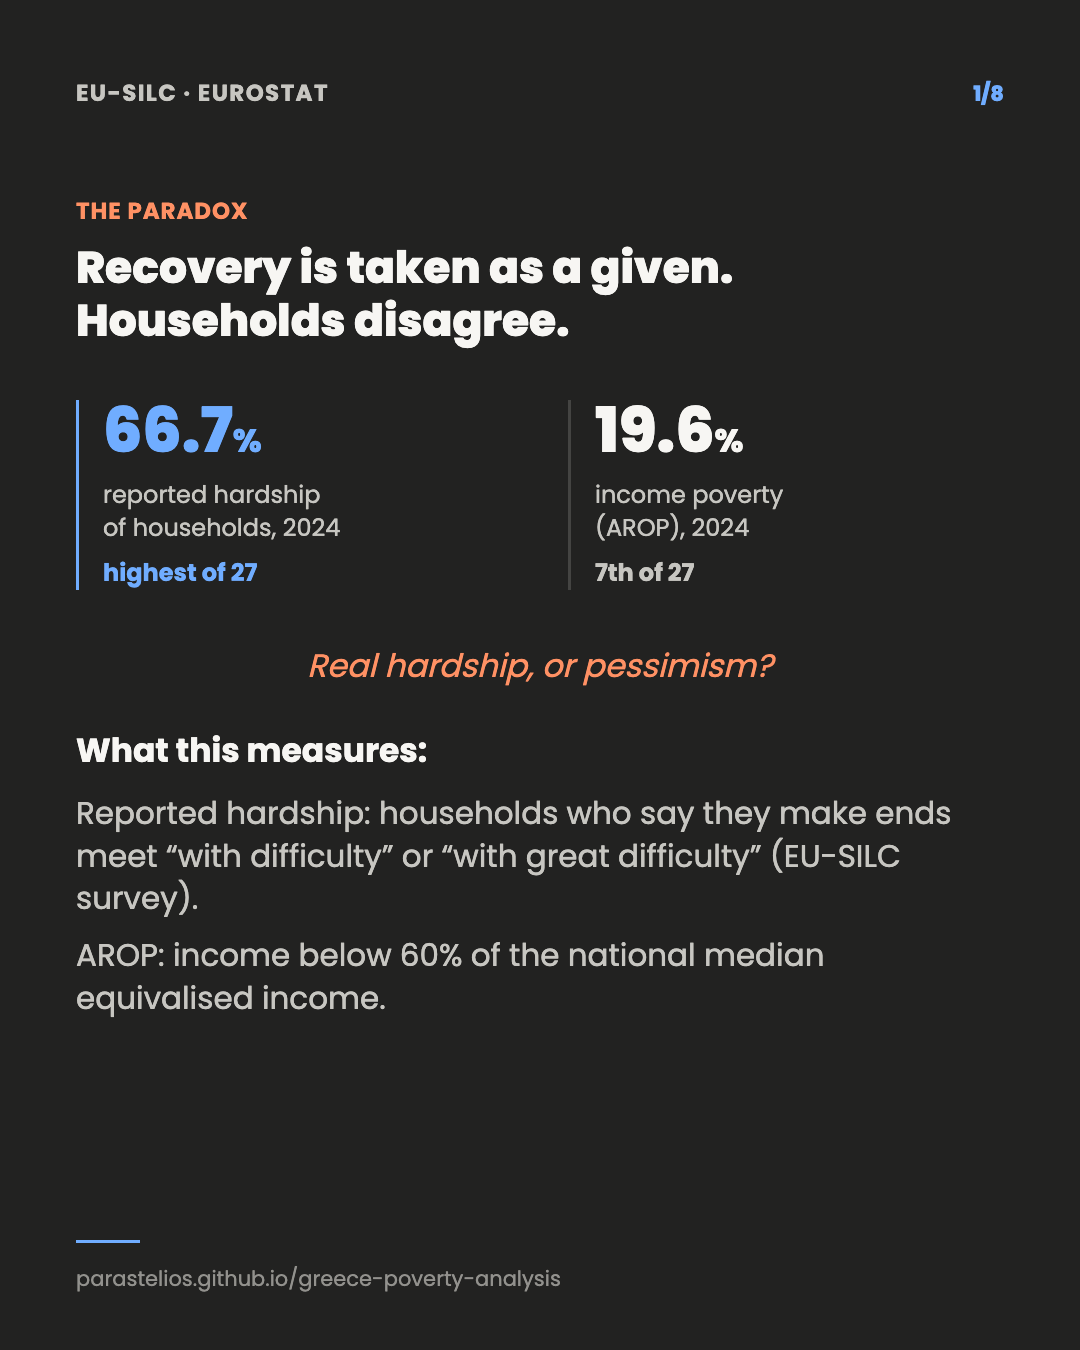
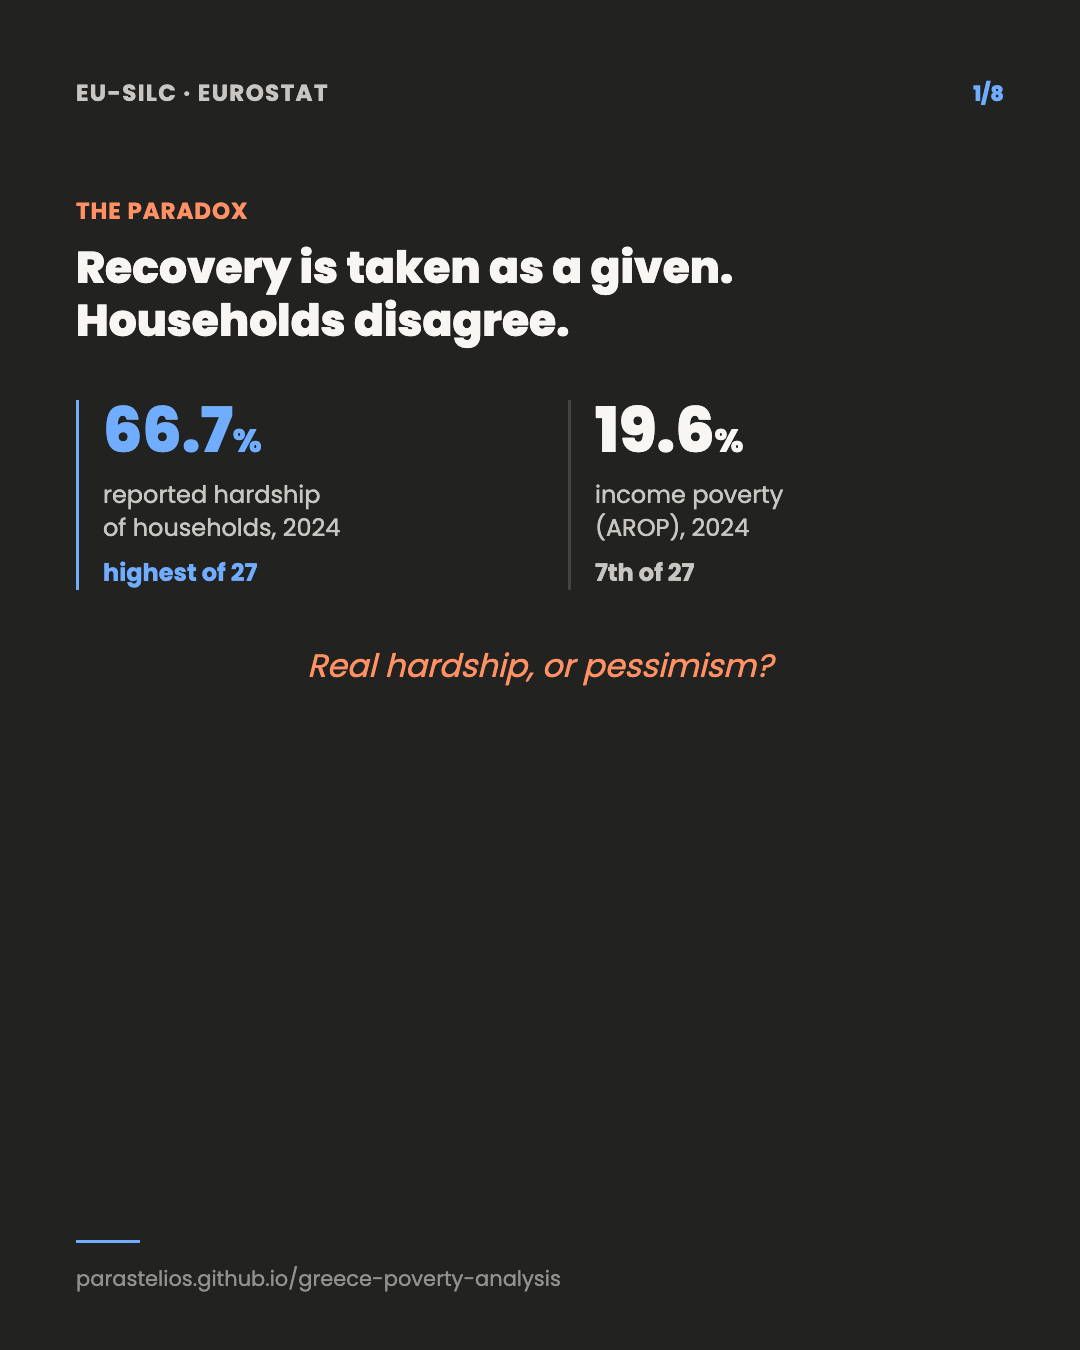
Move carousel "what this measures" definitions out of the images into real HTML
No amount of in-image font-size can guarantee a fixed CSS pixel size on
screen -- the carousel displays at ~283px on mobile and ~585px even on
desktop (a 1080px source scaled down 3.8x / 1.85x), so raster text baked
into the PNG can never reliably match the narrative's real ~17px body
text. Reverted cards 1/2/4/5/6 back to poster-only content (title, stats,
icons, footnote) and moved the definitions into a new .card-note block
rendered as actual DOM text beneath each image, sized to match the
narrative's body copy exactly and completely independent of image scale.

Changed region(s): [[0.0611, 0.5289, 0.8861, 0.7467]]

diff --git a/site/el.html b/site/el.html
@@ -102,9 +102,13 @@ footer a{color:var(--text-secondary)}
   -webkit-overflow-scrolling:touch;scrollbar-width:none;padding:2px 2px 4px;margin:0;
   list-style:none}
 .carousel-track::-webkit-scrollbar{display:none}
-.carousel-slide{flex:0 0 76%;scroll-snap-align:start;margin:0;border-radius:14px;
-  overflow:hidden;border:1px solid var(--border);background:var(--surface-1)}
+.carousel-slide{display:flex;flex-direction:column;flex:0 0 76%;scroll-snap-align:start;
+  margin:0;border-radius:14px;overflow:hidden;border:1px solid var(--border);
+  background:var(--surface-1)}
 .carousel-slide img{display:block;width:100%;height:auto;aspect-ratio:4/5;object-fit:cover}
+.card-note{padding:16px 18px 18px;font-size:17px;line-height:1.55;color:var(--text-secondary)}
+.card-note b{display:block;margin-bottom:6px;color:var(--text-primary)}
+.card-note .lfs{display:block;margin-top:8px;font-style:italic;font-size:15px;color:var(--text-muted)}
 .car-arrow{position:absolute;top:50%;transform:translateY(-50%);width:38px;height:38px;
   border-radius:50%;border:1px solid var(--border);background:var(--surface-1);
   color:var(--text-primary);font-size:18px;line-height:1;cursor:pointer;display:flex;
@@ -175,12 +179,12 @@ footer a{color:var(--text-secondary)}
   <div class="carousel-wrap">
     <div class="carousel" role="region" aria-roledescription="carousel" aria-label="Η ιστορία σε οκτώ κάρτες">
       <ul class="carousel-track" id="car-el" tabindex="0">
-        <li class="carousel-slide"><img src="assets/carousel/el-1.png" width="1080" height="1350" loading="lazy" alt="Η ανάκαμψη θεωρείται δεδομένη. Τα νοικοκυριά διαφωνούν. 66,7% των νοικοκυριών δηλώνουν οικονομική δυσκολία, η υψηλότερη τιμή στην ΕΕ, ενώ η εισοδηματική φτώχεια (AROP) είναι 19,6%, στην 7η θέση από τις 27 χώρες."></li>
-        <li class="carousel-slide"><img src="assets/carousel/el-2.png" width="1080" height="1350" loading="lazy" alt="Η δυσκολία δεν μπορεί να απορριφθεί ως απλή απαισιοδοξία. Τρεις δείκτες υλικής δυσκολίας — απρόοπτα έξοδα, θέρμανση, βασικές ανάγκες — κινούνται μαζί με τη δηλωμένη δυσκολία, με συσχετίσεις από 0,87 έως 0,94, 2015–2024."></li>
+        <li class="carousel-slide"><img src="assets/carousel/el-1.png" width="1080" height="1350" loading="lazy" alt="Η ανάκαμψη θεωρείται δεδομένη. Τα νοικοκυριά διαφωνούν. 66,7% των νοικοκυριών δηλώνουν οικονομική δυσκολία, η υψηλότερη τιμή στην ΕΕ, ενώ η εισοδηματική φτώχεια (AROP) είναι 19,6%, στην 7η θέση από τις 27 χώρες."><div class="card-note"><b>Τι μετρά:</b>Δηλωμένη δυσκολία: νοικοκυριά που δηλώνουν ότι τα βγάζουν πέρα «με δυσκολία» ή «με μεγάλη δυσκολία» (έρευνα EU-SILC). AROP: εισόδημα κάτω από το 60% του εθνικού διάμεσου ισοδύναμου εισοδήματος.</div></li>
+        <li class="carousel-slide"><img src="assets/carousel/el-2.png" width="1080" height="1350" loading="lazy" alt="Η δυσκολία δεν μπορεί να απορριφθεί ως απλή απαισιοδοξία. Τρεις δείκτες υλικής δυσκολίας — απρόοπτα έξοδα, θέρμανση, βασικές ανάγκες — κινούνται μαζί με τη δηλωμένη δυσκολία, με συσχετίσεις από 0,87 έως 0,94, 2015–2024."><div class="card-note"><b>Τι μετρά:</b>Συσχέτιση κοντά στο 1 σημαίνει ότι οι δύο σειρές κινούνται σχεδόν παράλληλα στον χρόνο &mdash; όχι ότι η μία προκαλεί την άλλη.</div></li>
         <li class="carousel-slide"><img src="assets/carousel/el-3.png" width="1080" height="1350" loading="lazy" alt="Ο πήχης έπεσε μαζί με τη χώρα. Το 2014 η επίσημη φτώχεια ήταν 22,1%, όμως με σταθερό το όριο του 2008 θα είχε φτάσει το 40,6% την ίδια χρονιά."></li>
-        <li class="carousel-slide"><img src="assets/carousel/el-4.png" width="1080" height="1350" loading="lazy" alt="Η απασχόληση βελτιώθηκε. Η οικονομική ασφάλεια όχι. Από το 2015 ως το 2024, η απασχόληση βελτιώθηκε σημαντικά, οι πραγματικοί μισθοί έπεσαν στο 68 από το 100, και η στεγαστική πίεση παραμένει στο 28,9%, πολύ πάνω από τη διάμεση τιμή της ΕΕ."></li>
-        <li class="carousel-slide"><img src="assets/carousel/el-5.png" width="1080" height="1350" loading="lazy" alt="Η κρίση δεν τελείωσε όταν έπεσε η ανεργία. Η Ελλάδα είναι 1η από τις 27 χώρες της ΕΕ στη συσσωρευμένη ανεργία, 2η στα χρόνια μισθών κάτω από το 2008, και 1η στην επιδείνωση του κόστους στέγασης, 2009–2024."></li>
-        <li class="carousel-slide"><img src="assets/carousel/el-6.png" width="1080" height="1350" loading="lazy" alt="Το μοντέλο δεν λύνει τα πάντα. Η θέση της Ελλάδας στο ανεξήγητο υπόλοιπο μετακινείται από την 3η στην 25η θέση μεταξύ 27 χωρών, ανάλογα με μία εύλογη αλλαγή στο μοντέλο."></li>
+        <li class="carousel-slide"><img src="assets/carousel/el-4.png" width="1080" height="1350" loading="lazy" alt="Η απασχόληση βελτιώθηκε. Η οικονομική ασφάλεια όχι. Από το 2015 ως το 2024, η απασχόληση βελτιώθηκε σημαντικά, οι πραγματικοί μισθοί έπεσαν στο 68 από το 100, και η στεγαστική πίεση παραμένει στο 28,9%, πολύ πάνω από τη διάμεση τιμή της ΕΕ."><div class="card-note"><b>Τι μετρά:</b>Πραγματικοί μισθοί: δείκτης έναντι του 2008 (2008=100), προσαρμοσμένος στον πληθωρισμό. Στεγαστική πίεση: μερίδιο πληθυσμού με κόστος στέγασης πάνω από το 40% του διαθέσιμου εισοδήματος.</div></li>
+        <li class="carousel-slide"><img src="assets/carousel/el-5.png" width="1080" height="1350" loading="lazy" alt="Η κρίση δεν τελείωσε όταν έπεσε η ανεργία. Η Ελλάδα είναι 1η από τις 27 χώρες της ΕΕ στη συσσωρευμένη ανεργία, 2η στα χρόνια μισθών κάτω από το 2008, και 1η στην επιδείνωση του κόστους στέγασης, 2009–2024."><div class="card-note"><b>Τι μετρά:</b>Συσσωρευμένη ανεργία: άθροισμα, από το 2009, των ετήσιων υπερβάσεων πάνω από το επίπεδο ανεργίας που είχε τότε κάθε χώρα.<span class="lfs">Εναρμονισμένη, αναδρομικά διορθωμένη σειρά EU-LFS, 2009&ndash;2024.</span></div></li>
+        <li class="carousel-slide"><img src="assets/carousel/el-6.png" width="1080" height="1350" loading="lazy" alt="Το μοντέλο δεν λύνει τα πάντα. Η θέση της Ελλάδας στο ανεξήγητο υπόλοιπο μετακινείται από την 3η στην 25η θέση μεταξύ 27 χωρών, ανάλογα με μία εύλογη αλλαγή στο μοντέλο."><div class="card-note"><b>Τι μετρά:</b>Υπόλοιπο = πραγματική μείον προβλεπόμενη δυσκολία, σε ποσοστιαίες μονάδες.</div></li>
         <li class="carousel-slide"><img src="assets/carousel/el-7.png" width="1080" height="1350" loading="lazy" alt="Το ανεξήγητο υπόλοιπο δεν αποδεικνύει «απαισιοδοξία». Φορολογία, πλούτος, εμπιστοσύνη, υγεία και μετανάστευση παραμένουν πιθανοί παράγοντες, όχι αποδεδειγμένες αιτίες."></li>
         <li class="carousel-slide"><img src="assets/carousel/el-8.png" width="1080" height="1350" loading="lazy" alt="Ορισμένοι δείκτες βελτιώθηκαν. Η κοινωνία δεν ανέκαμψε μαζί τους. Δεν μπορούμε να πιστοποιούμε την ανάκαμψη με τους δείκτες και να μεταφέρουμε την ευθύνη στην ψυχολογία των νοικοκυριών όταν η εμπειρία τους διαφωνεί."></li>
       </ul>

diff --git a/site/index.html b/site/index.html
@@ -102,9 +102,13 @@ footer a{color:var(--text-secondary)}
   -webkit-overflow-scrolling:touch;scrollbar-width:none;padding:2px 2px 4px;margin:0;
   list-style:none}
 .carousel-track::-webkit-scrollbar{display:none}
-.carousel-slide{flex:0 0 76%;scroll-snap-align:start;margin:0;border-radius:14px;
-  overflow:hidden;border:1px solid var(--border);background:var(--surface-1)}
+.carousel-slide{display:flex;flex-direction:column;flex:0 0 76%;scroll-snap-align:start;
+  margin:0;border-radius:14px;overflow:hidden;border:1px solid var(--border);
+  background:var(--surface-1)}
 .carousel-slide img{display:block;width:100%;height:auto;aspect-ratio:4/5;object-fit:cover}
+.card-note{padding:16px 18px 18px;font-size:17px;line-height:1.55;color:var(--text-secondary)}
+.card-note b{display:block;margin-bottom:6px;color:var(--text-primary)}
+.card-note .lfs{display:block;margin-top:8px;font-style:italic;font-size:15px;color:var(--text-muted)}
 .car-arrow{position:absolute;top:50%;transform:translateY(-50%);width:38px;height:38px;
   border-radius:50%;border:1px solid var(--border);background:var(--surface-1);
   color:var(--text-primary);font-size:18px;line-height:1;cursor:pointer;display:flex;
@@ -175,12 +179,12 @@ footer a{color:var(--text-secondary)}
   <div class="carousel-wrap">
     <div class="carousel" role="region" aria-roledescription="carousel" aria-label="The story in eight cards">
       <ul class="carousel-track" id="car-en" tabindex="0">
-        <li class="carousel-slide"><img src="assets/carousel/en-1.png" width="1080" height="1350" loading="lazy" alt="Recovery is taken as a given. Households disagree. 66.7% of households report economic hardship, the highest share in the EU, while income poverty (AROP) is 19.6%, 7th highest of 27 countries."></li>
-        <li class="carousel-slide"><img src="assets/carousel/en-2.png" width="1080" height="1350" loading="lazy" alt="Reported hardship cannot be dismissed as pessimism alone. Three material-hardship indicators — unexpected expense, heating, basic needs — move together with reported hardship, correlations from 0.87 to 0.94, 2015–2024."></li>
+        <li class="carousel-slide"><img src="assets/carousel/en-1.png" width="1080" height="1350" loading="lazy" alt="Recovery is taken as a given. Households disagree. 66.7% of households report economic hardship, the highest share in the EU, while income poverty (AROP) is 19.6%, 7th highest of 27 countries."><div class="card-note"><b>What this measures:</b>Reported hardship: households who say they make ends meet &ldquo;with difficulty&rdquo; or &ldquo;with great difficulty&rdquo; (EU-SILC survey). AROP: income below 60% of the national median equivalised income.</div></li>
+        <li class="carousel-slide"><img src="assets/carousel/en-2.png" width="1080" height="1350" loading="lazy" alt="Reported hardship cannot be dismissed as pessimism alone. Three material-hardship indicators — unexpected expense, heating, basic needs — move together with reported hardship, correlations from 0.87 to 0.94, 2015–2024."><div class="card-note"><b>What this measures:</b>A correlation near 1 means the two series move almost in lockstep over time &mdash; not that one causes the other.</div></li>
         <li class="carousel-slide"><img src="assets/carousel/en-3.png" width="1080" height="1350" loading="lazy" alt="The bar fell with the country. In 2014, official poverty was 22.1%, but with the 2008 line held fixed it would have reached 40.6% that same year."></li>
-        <li class="carousel-slide"><img src="assets/carousel/en-4.png" width="1080" height="1350" loading="lazy" alt="Employment improved. Economic security did not. From 2015 to 2024, employment improved substantially, real wages fell to 68 out of 100, and housing pressure remains at 28.9%, far above the EU-country median."></li>
-        <li class="carousel-slide"><img src="assets/carousel/en-5.png" width="1080" height="1350" loading="lazy" alt="The crisis didn't end when unemployment fell. Greece ranks 1st of 27 EU countries on accumulated unemployment, 2nd on years of wages below 2008, and 1st on housing-cost deterioration, 2009–2024."></li>
-        <li class="carousel-slide"><img src="assets/carousel/en-6.png" width="1080" height="1350" loading="lazy" alt="The model doesn't settle everything. Greece's rank on the unexplained remainder moves from 3rd to 25th of 27 countries, depending on one reasonable modelling choice."></li>
+        <li class="carousel-slide"><img src="assets/carousel/en-4.png" width="1080" height="1350" loading="lazy" alt="Employment improved. Economic security did not. From 2015 to 2024, employment improved substantially, real wages fell to 68 out of 100, and housing pressure remains at 28.9%, far above the EU-country median."><div class="card-note"><b>What this measures:</b>Real wages: an inflation-adjusted index against each country&rsquo;s own 2008 level (2008=100). Housing pressure: share of population whose housing costs exceed 40% of disposable income.</div></li>
+        <li class="carousel-slide"><img src="assets/carousel/en-5.png" width="1080" height="1350" loading="lazy" alt="The crisis didn't end when unemployment fell. Greece ranks 1st of 27 EU countries on accumulated unemployment, 2nd on years of wages below 2008, and 1st on housing-cost deterioration, 2009–2024."><div class="card-note"><b>What this measures:</b>Accumulated unemployment: the sum, from 2009 onward, of each year&rsquo;s excess above that country&rsquo;s own 2009 unemployment level.<span class="lfs">Harmonized, retrospectively corrected EU-LFS series, 2009&ndash;2024.</span></div></li>
+        <li class="carousel-slide"><img src="assets/carousel/en-6.png" width="1080" height="1350" loading="lazy" alt="The model doesn't settle everything. Greece's rank on the unexplained remainder moves from 3rd to 25th of 27 countries, depending on one reasonable modelling choice."><div class="card-note"><b>What this measures:</b>Residual = actual minus predicted hardship, in percentage points.</div></li>
         <li class="carousel-slide"><img src="assets/carousel/en-7.png" width="1080" height="1350" loading="lazy" alt="The unexplained remainder is not evidence of “pessimism.” Taxation, wealth, trust, health and migration remain possible factors, not proven causes."></li>
         <li class="carousel-slide"><img src="assets/carousel/en-8.png" width="1080" height="1350" loading="lazy" alt="Some indicators improved. Society did not recover with them. We cannot certify recovery with indicators, then shift the blame onto households' psychology when their experience disagrees."></li>
       </ul>
